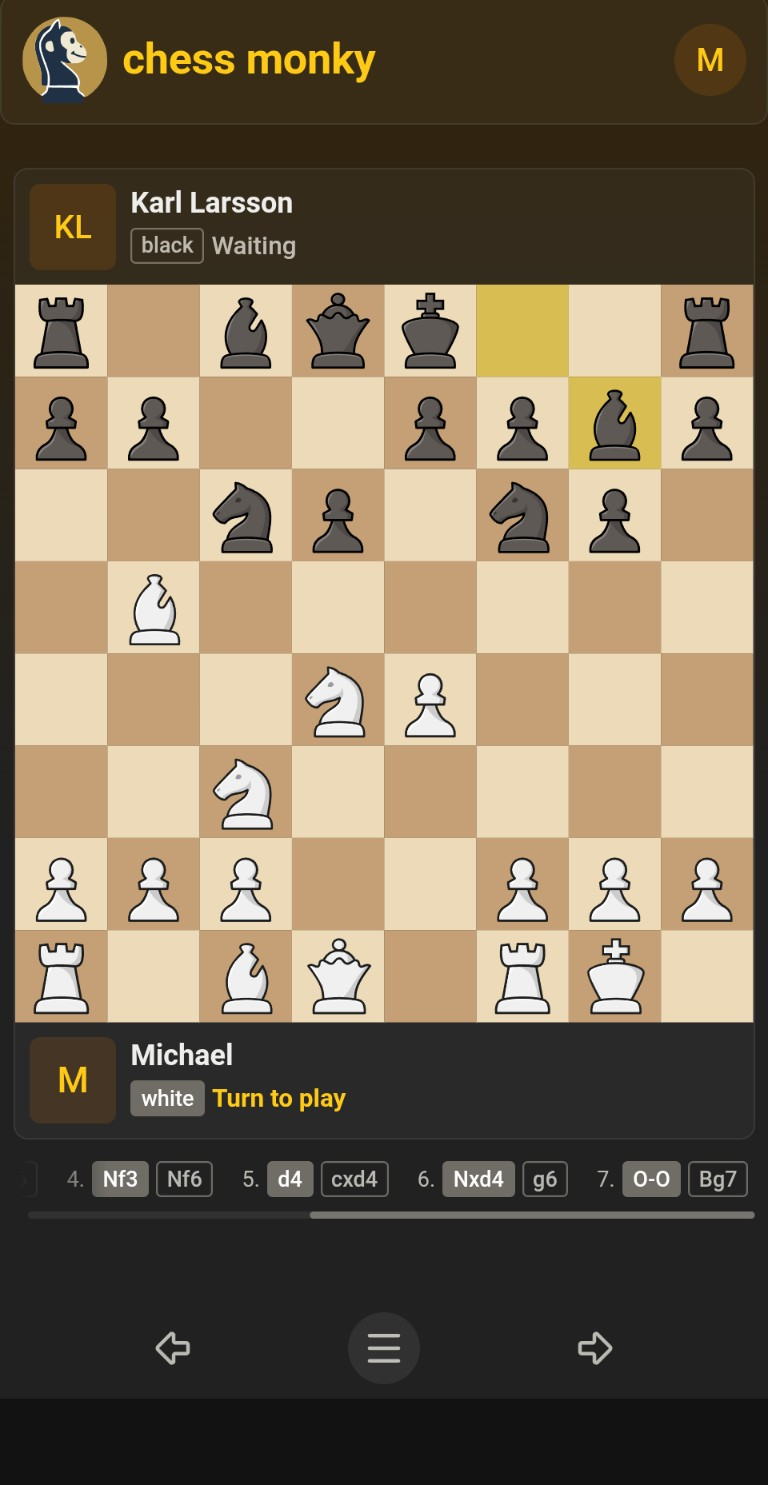
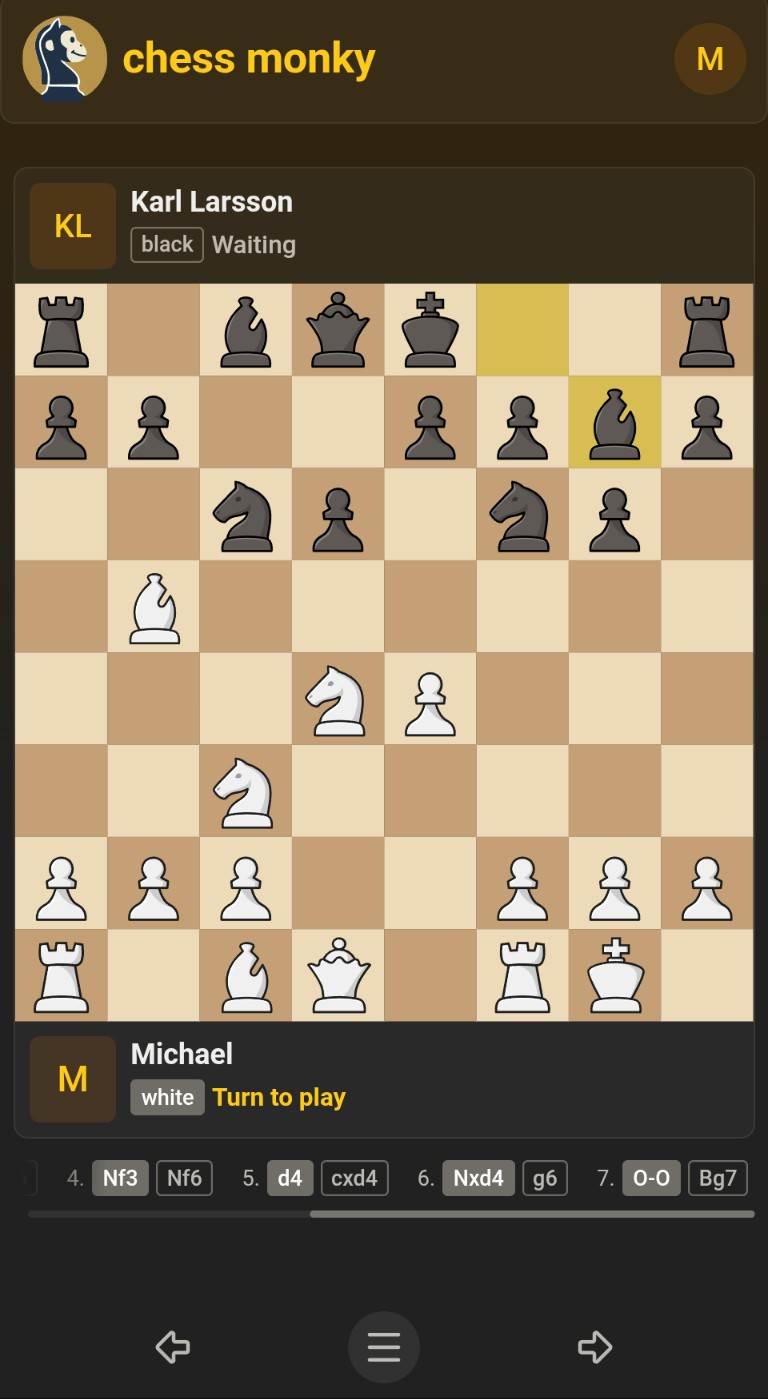
bigger images in readme

diff --git a/README.md b/README.md
@@ -5,8 +5,8 @@ A modern chess application built with React, Next.js, and TypeScript. Features a
 ## Screenshots
 
 <div style="display:flex; flex-wrap: wrap;">
-  <img src="screenshots/desktop-view.png" width="250"/>
-  <img src="screenshots/mobile-view.png" height="183"/>
+  <img src="screenshots/desktop-view.png" width="300"/>
+  <img src="screenshots/mobile-view.png" height="220"/>
 </div>
 
 ## Development setup
